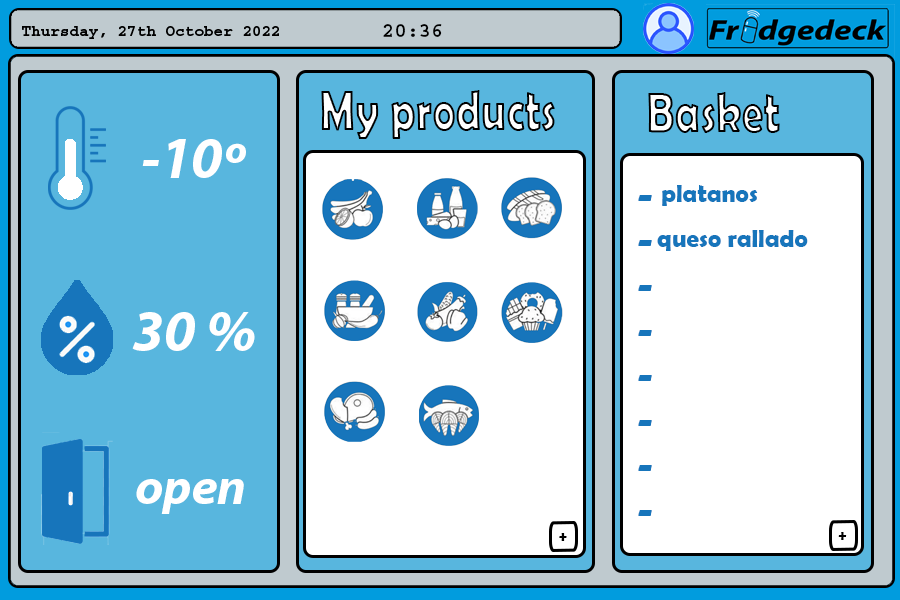
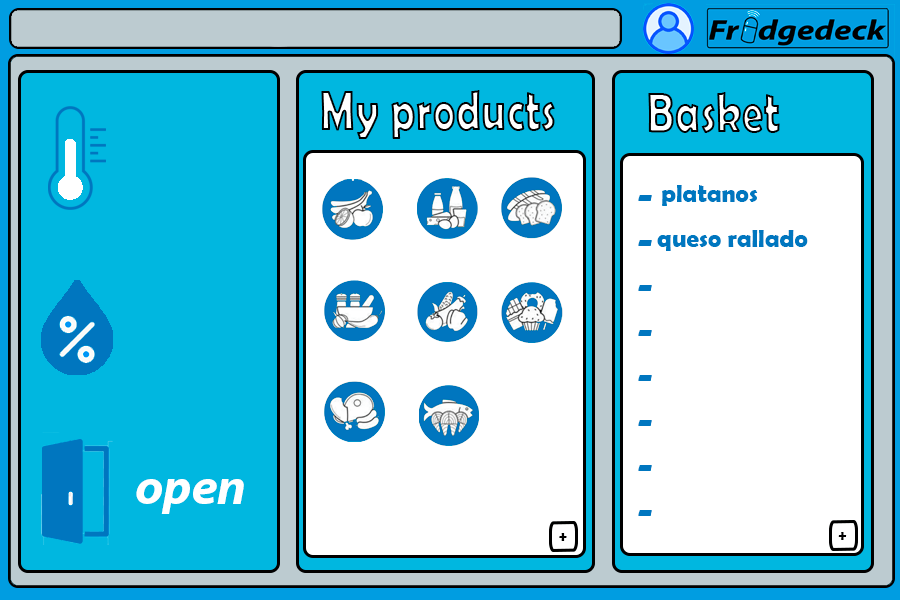
Upd ventana de usuario

diff --git a/src/control/controladorVentanaUsuario.java b/src/control/controladorVentanaUsuario.java
@@ -1,68 +1,83 @@
 package control;
 
-import application.Main;
-import javafx.event.ActionEvent;
+import java.io.IOException;
+import java.io.Reader;
+import java.lang.reflect.InvocationTargetException;
+import java.nio.file.Files;
+import java.nio.file.Paths;
+import java.text.DateFormat;
+import java.text.SimpleDateFormat;
+import java.util.Calendar;
+import java.util.Date;
+import java.util.Locale;
+import java.util.Timer;
+import java.util.TimerTask;
+
+import javax.swing.SwingUtilities;
+
+import com.google.gson.Gson;
+import com.google.gson.GsonBuilder;
+
+import application.FridgeDate;
+import application.Usuario;
+import javafx.application.Platform;
 import javafx.fxml.FXML;
 import javafx.fxml.FXMLLoader;
 import javafx.scene.Node;
 import javafx.scene.Parent;
 import javafx.scene.Scene;
-import javafx.scene.control.Button;
+import javafx.scene.control.Label;
 import javafx.stage.Modality;
-import javafx.stage.Stage;
 
 public class controladorVentanaUsuario {
 	@FXML
-    private Button btnLogin;
+    private Label lblTime;
 	
 	@FXML
-    private Button btnRegistrarse;
+    private Label lblTemperatura;
 	
 	@FXML
-    void abrirLogin(ActionEvent event) {
-		try {
-			FXMLLoader loader2 = new FXMLLoader(getClass().getResource("/view/login.fxml"));
-			
-			controladorLogin control2 = new controladorLogin();
-			
-			loader2.setController(control2);
+    private Label lblHumedad;
 	
-			Parent root2 = loader2.load();
-						
-			Stage stage = new Stage();
-			
-			stage.setScene(new Scene(root2));
-			
-			stage.initModality(Modality.WINDOW_MODAL);
-			stage.initOwner(((Node) (event.getSource())).getScene().getWindow());
-			stage.setResizable(false);
-			stage.show();
-		} catch(Exception e) {
-			e.printStackTrace();
-		}
+	public void initialize() throws InterruptedException{
+		Timer timer = new Timer("Display Timer");
+		TimerTask task = new TimerTask() {
+		    @Override
+		    public void run() {
+		        	try {
+						Platform.runLater(new Runnable() {
+						    @Override
+						    public void run() {
+						        DateFormat timeFormat = new SimpleDateFormat("EEE, d MMM yyyy HH:mm:ss", new Locale("es, ES"));
+						        Calendar cali = Calendar.getInstance();
+						        cali.getTime();
+						        String time = timeFormat.format(cali.getTimeInMillis());
+						        //System.out.println(timeFormat.format(cali.getTimeInMillis()));
+						        lblTime.setText(time);
+
+						    }
+						});
+					} catch (Exception e) {
+						// TODO Auto-generated catch block
+						e.printStackTrace();
+					}
+		    }
+		};
+		timer.scheduleAtFixedRate(task, 1000, 1000);
+		
+		leer_datos();
 	}
-	
-	@FXML
-    void abrirRegistrarse(ActionEvent event) {
+
+	private void leer_datos() {
+		Gson gson = new GsonBuilder().setPrettyPrinting().create();
 		try {
-			FXMLLoader loader3 = new FXMLLoader(getClass().getResource("/view/registrarse.fxml"));
-			
-			controladorRegistrarse control3 = new controladorRegistrarse();
-			
-			loader3.setController(control3);
-	
-			Parent root3 = loader3.load();
-						
-			Stage stage = new Stage();
-			
-			stage.setScene(new Scene(root3));
-			
-			stage.initModality(Modality.WINDOW_MODAL);
-			stage.initOwner(((Node) (event.getSource())).getScene().getWindow());
-			stage.setResizable(false);
-			stage.show();
-		} catch(Exception e) {
-			e.printStackTrace();
+			Reader reader = Files.newBufferedReader(Paths.get("fridgedate.json"));
+			FridgeDate[] datos = new Gson().fromJson(reader, FridgeDate[].class);
+			lblTemperatura.setText(String.valueOf(datos[controladorLogin.user_id-1].temperatura) + "C");
+			lblHumedad.setText(String.valueOf(datos[controladorLogin.user_id-1].humedad) + "%");
+		} catch (IOException e1) {
+			// TODO Auto-generated catch block
+			e1.printStackTrace();
 		}
 	}
 }

diff --git a/src/control/controladorLogin.java b/src/control/controladorLogin.java
@@ -39,7 +39,9 @@ public class controladorLogin {
     private Button btnLogin;
 	
 	public static final Stage stage  = new Stage();
-	 
+	
+	public static int user_id = 0;
+	
 	@FXML
     void entrar(ActionEvent e) {
 		JFrame jFrame = new JFrame();
@@ -58,6 +60,7 @@ public class controladorLogin {
     			for(int i=0; i<users.length; i++) {
     				if(users[i].username.equals(username)&&users[i].password.equals(password)) {
     					//System.out.println("Existe");
+    					user_id = users[i].id;
     					checkUser = true;
     					try {
     						FXMLLoader loader = new FXMLLoader(getClass().getResource("/view/ventana_usuario.fxml"));
@@ -75,7 +78,7 @@ public class controladorLogin {
     						stage.setResizable(false);
     						stage.show();
     						
-    						//controladorMain cm = new controladorMain();
+    						controladorMain cm = new controladorMain();
     						//cm.cancelLogin();
     					} catch(Exception e3) {
     						e3.printStackTrace();

diff --git a/controladorMain.java b/controladorMain.java
@@ -18,8 +18,6 @@ public class controladorMain {
 	@FXML
     private Button btnRegistrarse;
 	
-	public static final Stage stage  = new Stage();
-	
 	@FXML
     void abrirLogin(ActionEvent event) {
 		try {
@@ -30,6 +28,8 @@ public class controladorMain {
 			loader2.setController(control2);
 	
 			Parent root2 = loader2.load();
+						
+			Stage stage = new Stage();
 			
 			stage.setScene(new Scene(root2));
 			
@@ -40,10 +40,6 @@ public class controladorMain {
 		} catch(Exception e) {
 			e.printStackTrace();
 		}
-	}
-	
-	public void cancelLogin() {
-	    stage.getScene().getWindow().hide();
 	}
 	
 	@FXML

diff --git a/src/application/FridgeDate.java b/src/application/FridgeDate.java
@@ -1,0 +1,23 @@
+package application;
+
+import java.util.List;
+
+public class FridgeDate {
+	public int id_user;
+    public int temperatura;
+    public int humedad;
+    public List<Productos> productos;
+    public List<ListaCompras> lcomp;
+    public String estado;
+    
+	public FridgeDate(int id_user, int temperatura, int humedad, List<Productos> productos, List<ListaCompras> lcomp,
+			String estado) {
+		super();
+		this.id_user = id_user;
+		this.temperatura = temperatura;
+		this.humedad = humedad;
+		this.productos = productos;
+		this.lcomp = lcomp;
+		this.estado = estado;
+	}  
+}

diff --git a/src/application/ListaCompras.java b/src/application/ListaCompras.java
@@ -1,0 +1,12 @@
+package application;
+
+public class ListaCompras {
+	public String name;
+    public String cantidad;
+    
+	public ListaCompras(String name, String cantidad) {
+		super();
+		this.name = name;
+		this.cantidad = cantidad;
+	}   
+}

diff --git a/src/application/Productos.java b/src/application/Productos.java
@@ -1,0 +1,11 @@
+package application;
+
+public class Productos {
+	public String name;
+    public String cantidad;
+    
+	public Productos(String name, String cantidad) {
+		this.name = name;
+		this.cantidad = cantidad;
+	}
+}

diff --git a/src/application/Usuario.java b/src/application/Usuario.java
@@ -2,7 +2,7 @@ package application;
 
 public class Usuario {
 	
-    private final int id;
+    public final int id;
     public final String username;
     public final String email;
     public final String password;
